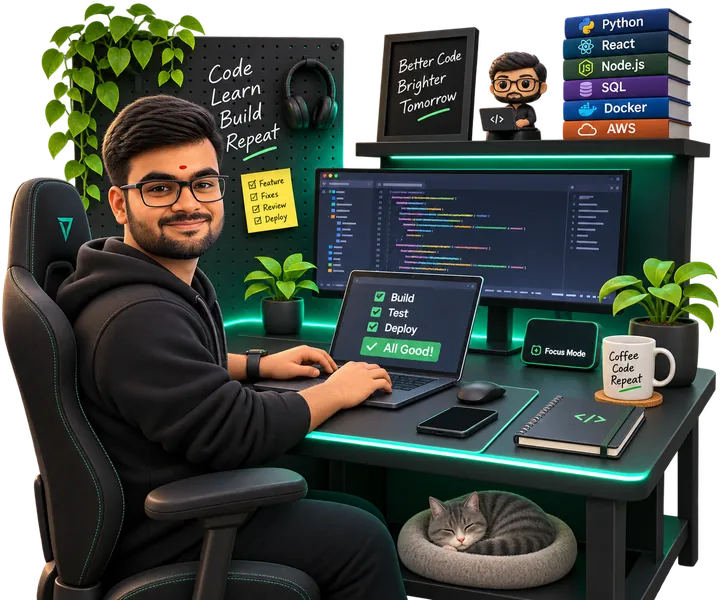
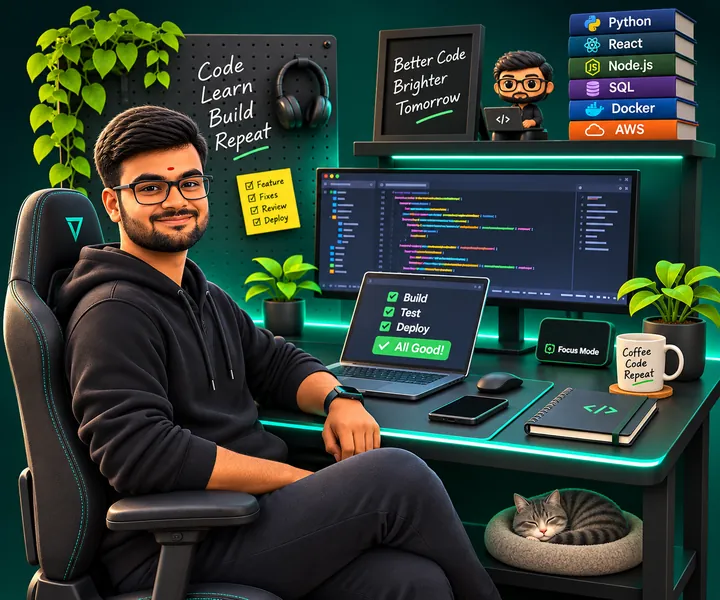
Hero: full-scene illustration with animations (code, laptop checks, steam, sleeping cat, live clock)

diff --git a/src/components/HeroScene.css b/src/components/HeroScene.css
@@ -1,0 +1,164 @@
+/* Animated layer over the hero illustration (see HeroScene.jsx).
+   All lengths are in the illustration's own pixels (viewBox 1374x1145). */
+.hero-scene {
+  position: absolute;
+  inset: 0;
+  width: 100%;
+  height: 100%;
+  pointer-events: none;
+  mix-blend-mode: screen; /* effects only add light to the picture */
+}
+
+/* ---------- monitor: current line + cursor ----------
+   One stop per code line: [y centre, x where the line ends]
+   368/817 378.5/881 388/821 398.5/855 410.5/946 420.5/894
+   435/1016 450/816 475.5/948 492.5/892 508/1019            */
+.hs-code-line {
+  fill: rgba(62, 237, 183, 0.13);
+  animation: hs-code-line 8.8s step-end infinite;
+}
+
+.hs-code-caret-pos {
+  animation: hs-code-caret 8.8s step-end infinite;
+}
+
+.hs-code-caret {
+  fill: #e6f2ef;
+  animation: hs-blink 1s steps(1, end) infinite;
+}
+
+@keyframes hs-code-line {
+  0% { transform: translateY(368px); }
+  9.09% { transform: translateY(378.5px); }
+  18.18% { transform: translateY(388px); }
+  27.27% { transform: translateY(398.5px); }
+  36.36% { transform: translateY(410.5px); }
+  45.45% { transform: translateY(420.5px); }
+  54.55% { transform: translateY(435px); }
+  63.64% { transform: translateY(450px); }
+  72.73% { transform: translateY(475.5px); }
+  81.82% { transform: translateY(492.5px); }
+  90.91%, 100% { transform: translateY(508px); }
+}
+
+@keyframes hs-code-caret {
+  0% { transform: translate(817px, 368px); }
+  9.09% { transform: translate(881px, 378.5px); }
+  18.18% { transform: translate(821px, 388px); }
+  27.27% { transform: translate(855px, 398.5px); }
+  36.36% { transform: translate(946px, 410.5px); }
+  45.45% { transform: translate(894px, 420.5px); }
+  54.55% { transform: translate(1016px, 435px); }
+  63.64% { transform: translate(816px, 450px); }
+  72.73% { transform: translate(948px, 475.5px); }
+  81.82% { transform: translate(892px, 492.5px); }
+  90.91%, 100% { transform: translate(1019px, 508px); }
+}
+
+@keyframes hs-blink {
+  50% { opacity: 0; }
+}
+
+/* ---------- laptop: ticks light up in turn, then "All Good!" ---------- */
+.hs-tick {
+  fill: #4ade80;
+  opacity: 0;
+  animation: hs-tick 5s ease-out infinite;
+}
+
+.hs-tick-2 { animation-delay: 0.5s; }
+.hs-tick-3 { animation-delay: 1s; }
+
+@keyframes hs-tick {
+  0% { opacity: 0; }
+  8% { opacity: 0.9; }
+  70% { opacity: 0.3; }
+  80%, 100% { opacity: 0; }
+}
+
+.hs-good {
+  fill: rgba(74, 222, 128, 0.25);
+  stroke: #4ade80;
+  stroke-width: 6;
+  opacity: 0;
+  transform-box: fill-box;
+  transform-origin: center;
+  transform: skewX(-15deg); /* the laptop screen is seen at an angle */
+  animation: hs-good 5s ease-in-out infinite;
+}
+
+@keyframes hs-good {
+  0%, 30% { opacity: 0; }
+  38% { opacity: 0.9; }
+  50% { opacity: 0.45; }
+  60% { opacity: 0.85; }
+  80%, 100% { opacity: 0; }
+}
+
+/* ---------- coffee steam ---------- */
+.hs-steam {
+  fill: none;
+  stroke: rgba(255, 255, 255, 0.6);
+  stroke-width: 5;
+  stroke-linecap: round;
+  opacity: 0;
+  animation: hs-steam 3.6s ease-in-out infinite;
+}
+
+.hs-steam-2 { animation-delay: 1.2s; }
+.hs-steam-3 { animation-delay: 2.4s; }
+
+@keyframes hs-steam {
+  0% { opacity: 0; transform: translateY(6px); }
+  35% { opacity: 0.6; }
+  100% { opacity: 0; transform: translateY(-34px); }
+}
+
+/* ---------- sleeping cat ---------- */
+.hs-z {
+  font-family: var(--font-sans);
+  font-weight: 800;
+  fill: #e6f2ef;
+  opacity: 0;
+  animation: hs-z 3.6s ease-out infinite;
+}
+
+.hs-z-1 { font-size: 16px; }
+.hs-z-2 { font-size: 21px; animation-delay: 1.2s; }
+.hs-z-3 { font-size: 26px; animation-delay: 2.4s; }
+
+@keyframes hs-z {
+  0% { opacity: 0; transform: translate(0, 0); }
+  20% { opacity: 0.85; }
+  100% { opacity: 0; transform: translate(34px, -60px); }
+}
+
+/* ---------- desk clock ---------- */
+.hs-clock {
+  font-family: var(--font-sans);
+  font-size: 34px; /* the clock screen's original digit height */
+  font-weight: 700;
+  font-variant-numeric: tabular-nums;
+  fill: #f6f8f7;
+  filter: drop-shadow(0 0 2px rgba(255, 255, 255, 0.35));
+}
+
+.hs-clock-colon {
+  animation: hs-colon 2s steps(1, end) infinite;
+}
+
+@keyframes hs-colon {
+  50% { opacity: 0.35; }
+}
+
+/* ---------- pause when the hero is off screen; respect reduced motion ---------- */
+.hero.is-offscreen .hero-scene *,
+.hero.is-offscreen .hero-art {
+  animation-play-state: paused;
+}
+
+@media (prefers-reduced-motion: reduce) {
+  .hs-anim {
+    display: none;
+  }
+}

diff --git a/src/components/HeroScene.jsx b/src/components/HeroScene.jsx
@@ -1,0 +1,64 @@
+import useClock from "../hooks/useClock";
+import "./HeroScene.css";
+
+// Animated layer over the hero illustration. The SVG uses the source image's own
+// pixel grid (1374x1145), so every effect sits on the right spot and scales and
+// floats with the picture. Effects only add light (mix-blend-mode: screen), and
+// everything except the clock is hidden for visitors who prefer reduced motion.
+// Positions were measured on the image; if the image changes, re-measure them.
+const HeroScene = () => {
+  // Pre-rendered HTML (and no-JS visitors) show 11:47; the browser shows live time.
+  const [hours, minutes] = useClock("11:47").split(":");
+
+  return (
+    <svg className="hero-scene" viewBox="0 0 1374 1145" aria-hidden="true" focusable="false">
+      <defs>
+        <filter id="hs-soft" x="-50%" y="-50%" width="200%" height="200%">
+          <feGaussianBlur stdDeviation="2" />
+        </filter>
+        <filter id="hs-glow" x="-50%" y="-50%" width="200%" height="200%">
+          <feGaussianBlur stdDeviation="4" />
+        </filter>
+      </defs>
+
+      {/* Monitor: the current line steps through the code, cursor at the line end */}
+      <g className="hs-anim">
+        <rect className="hs-code-line" x="766" y="-5.5" width="308" height="11" rx="2" />
+        <g className="hs-code-caret-pos">
+          <rect className="hs-code-caret" x="4" y="-5.5" width="2.5" height="11" />
+        </g>
+      </g>
+
+      {/* Laptop: Build, Test, Deploy tick in turn, then "All Good!" lights up */}
+      <g className="hs-anim" filter="url(#hs-glow)">
+        <circle className="hs-tick hs-tick-1" cx="749" cy="566" r="13" />
+        <circle className="hs-tick hs-tick-2" cx="742" cy="594" r="13" />
+        <circle className="hs-tick hs-tick-3" cx="734" cy="622" r="13" />
+        <rect className="hs-good" x="717" y="642" width="136" height="44" rx="12" />
+      </g>
+
+      {/* Coffee: steam rising from the mug */}
+      <g className="hs-anim" filter="url(#hs-soft)">
+        <path className="hs-steam hs-steam-1" d="M1216 634 c-7 -10 7 -20 0 -30 s-7 -20 0 -30" />
+        <path className="hs-steam hs-steam-2" d="M1234 630 c7 -10 -7 -20 0 -30 s7 -20 0 -30" />
+        <path className="hs-steam hs-steam-3" d="M1252 634 c-7 -10 7 -20 0 -30 s-7 -20 0 -30" />
+      </g>
+
+      {/* Cat: z z Z drifting up while it sleeps */}
+      <g className="hs-anim">
+        <text className="hs-z hs-z-1" x="1060" y="940">z</text>
+        <text className="hs-z hs-z-2" x="1060" y="940">z</text>
+        <text className="hs-z hs-z-3" x="1060" y="940">Z</text>
+      </g>
+
+      {/* Desk clock: live time (the painted digits were removed from the image) */}
+      <text className="hs-clock" x="1095.5" y="648" textAnchor="middle">
+        {hours}
+        <tspan className="hs-clock-colon">:</tspan>
+        {minutes}
+      </text>
+    </svg>
+  );
+};
+
+export default HeroScene;

diff --git a/src/components/Hero.jsx b/src/components/Hero.jsx
@@ -1,29 +1,13 @@
-import { useRef } from "react";
+import { useEffect, useRef } from "react";
 import { FaArrowDown, FaArrowRight, FaPaperPlane } from "react-icons/fa";
 import { marquee, profile } from "../data/portfolio";
-import useClock from "../hooks/useClock";
 import useScramble from "../hooks/useScramble";
 import useTypewriter from "../hooks/useTypewriter";
 import { prefersReducedMotion } from "../lib/utils";
 import WorkspaceImg from "../assets/developer-workspace.webp";
 import WorkspaceImgSmall from "../assets/developer-workspace-720.webp";
+import HeroScene from "./HeroScene";
 import "./Hero.css";
-
-// Live time on the desk clock in the illustration (its painted digits were removed
-// from the image). Coordinates are pixels of the 1374x1145 source image, so the
-// clock scales and floats with the picture. Pre-rendered HTML shows 11:47.
-const DeskClock = () => {
-  const [hours, minutes] = useClock("11:47").split(":");
-  return (
-    <svg className="hero-clock" viewBox="0 0 1374 1145" aria-hidden="true" focusable="false">
-      <text className="hero-clock-time" x="1069.5" y="651" textAnchor="middle">
-        {hours}
-        <tspan className="hero-clock-colon">:</tspan>
-        {minutes}
-      </text>
-    </svg>
-  );
-};
 
 const Hero = () => {
   const sectionRef = useRef(null);
@@ -31,6 +15,17 @@ const Hero = () => {
   const frame = useRef(0);
   const name = useScramble(profile.name);
   const role = useTypewriter(profile.roles);
+
+  // Pause the illustration's animations while the hero is scrolled out of view.
+  useEffect(() => {
+    const section = sectionRef.current;
+    if (!section || !("IntersectionObserver" in window)) return undefined;
+    const observer = new IntersectionObserver(([entry]) =>
+      section.classList.toggle("is-offscreen", !entry.isIntersecting)
+    );
+    observer.observe(section);
+    return () => observer.disconnect();
+  }, []);
 
   // Spotlight + tilt are written straight to CSS variables — no re-renders.
   const onPointerMove = (e) => {
@@ -135,7 +130,7 @@ const Hero = () => {
                 src={WorkspaceImg}
                 srcSet={`${WorkspaceImgSmall} 720w, ${WorkspaceImg} 1100w`}
                 sizes="(max-width: 960px) min(560px, calc(100vw - 32px)), 600px"
-                alt="3D illustration of Kannan M coding at a desk with a laptop and monitor"
+                alt="3D illustration of Kannan M at a desk with a laptop, monitor, coffee mug and a sleeping cat"
                 className="hero-image"
                 width="1100"
                 height="917"
@@ -144,7 +139,7 @@ const Hero = () => {
                 fetchpriority="high"
                 decoding="async"
               />
-              <DeskClock />
+              <HeroScene />
             </div>
             <span className="hero-badge hero-badge-a">
               <span className="live-dot" aria-hidden="true" /> build passing

diff --git a/src/components/Hero.css b/src/components/Hero.css
@@ -229,10 +229,14 @@
   transition: transform 0.4s var(--ease);
 }
 
-/* image + live desk clock float together */
+/* illustration card: image + animated layer (HeroScene) float together */
 .hero-art {
   position: relative;
-  filter: drop-shadow(0 30px 40px rgba(0, 0, 0, 0.55));
+  overflow: hidden;
+  isolation: isolate;
+  border: 1px solid var(--border-strong);
+  border-radius: 24px;
+  box-shadow: 0 30px 60px -30px rgba(0, 0, 0, 0.6), 0 0 70px -25px var(--glow);
   animation: levitate 6s ease-in-out infinite alternate;
 }
 
@@ -241,31 +245,6 @@
   height: auto;
   user-select: none;
   -webkit-user-drag: none;
-}
-
-.hero-clock {
-  position: absolute;
-  inset: 0;
-  width: 100%;
-  height: 100%;
-  pointer-events: none;
-}
-
-.hero-clock-time {
-  font-family: var(--font-sans);
-  font-size: 36px; /* in image pixels: the clock screen's original digit height */
-  font-weight: 700;
-  font-variant-numeric: tabular-nums;
-  fill: #f6f8f7;
-  filter: drop-shadow(0 0 2px rgba(255, 255, 255, 0.35));
-}
-
-.hero-clock-colon {
-  animation: clock-colon 2s steps(1, end) infinite;
-}
-
-@keyframes clock-colon {
-  50% { opacity: 0.35; }
 }
 
 @keyframes levitate {
